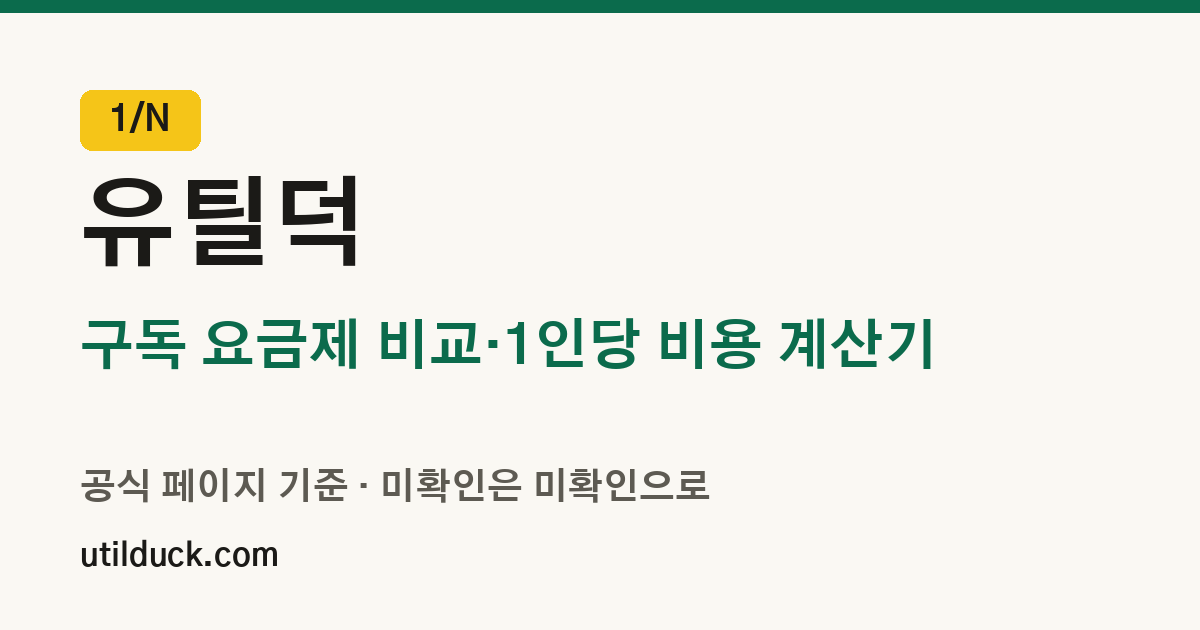
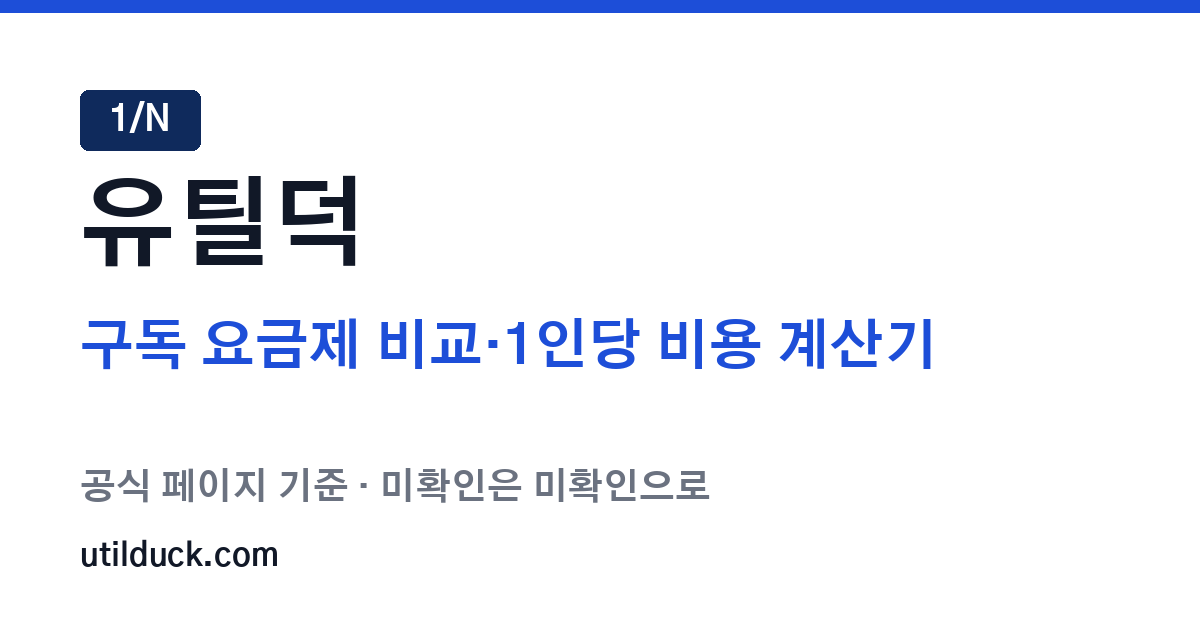
design v2: 화이트·쿨그레이 배경, 딥 블루 단일 강조, 네이비 로고마크 (2026-11-26 KST)

diff --git a/assets/style.css b/assets/style.css
@@ -1,15 +1,15 @@
-/* 유틸덕 디자인 토큰 — "1/N 정산표" 컨셉. 직접 작성(외부 CSS 복사 없음). */
+/* 유틸덕 디자인 토큰 v2 — 화이트·쿨그레이 + 딥 블루 단일 강조, "1/N 정산표" 컨셉. 직접 작성(외부 CSS 복사 없음). */
 :root{
-  --bg:#faf8f3;--surface:#fff;--surface-2:#fcfbf8;--line:#e4dfd3;--line-2:#efebe2;
-  --fg:#1b1a17;--mut:#5d5a52;--acc:#0b6b4c;--acc-hover:#08583e;--acc-soft:#e6f2ec;
-  --duck:#f5c518;--warn:#8a4500;--warn-soft:#fff4e2;--warn-line:#f0cf9a;
-  --r-s:6px;--r-m:10px;--r-l:12px;--r-pill:999px;
-  --sh-pop:0 8px 24px rgba(27,26,23,.08);
+  --bg:#f7f8fa;--surface:#fff;--surface-2:#f9fafb;--line:#e5e7eb;--line-2:#eef0f3;
+  --fg:#111827;--mut:#6b7280;--acc:#1d4ed8;--acc-hover:#1e40af;--acc-soft:#eff4ff;
+  --navy:#0f2a5c;--warn:#92400e;--warn-soft:#fffbeb;--warn-line:#fcd9a6;
+  --r-s:4px;--r-m:6px;--r-l:8px;--r-pill:6px;
+  --sh-pop:0 1px 3px rgba(17,24,39,.06),0 1px 2px rgba(17,24,39,.04);
   --fs-xs:.75rem;--fs-s:.8125rem;--fs-m:.9375rem;--fs-b:1rem;--fs-lead:1.0625rem;--fs-h3:1.0625rem;--fs-h2:1.3125rem;--fs-h1:1.75rem;--fs-num:2.5rem;
   --font:"Pretendard Variable",Pretendard,-apple-system,BlinkMacSystemFont,system-ui,"Apple SD Gothic Neo","Noto Sans KR","Malgun Gothic",sans-serif;
 }
 *{box-sizing:border-box}html{-webkit-text-size-adjust:100%}
-body{margin:0;font:400 var(--fs-b)/1.7 var(--font);background:var(--bg);color:var(--fg);letter-spacing:-.005em;word-break:keep-all;overflow-wrap:anywhere}
+body{margin:0;font:400 var(--fs-b)/1.7 var(--font);background:var(--bg);color:var(--fg);letter-spacing:-.005em;font-variant-numeric:tabular-nums;word-break:keep-all;overflow-wrap:anywhere}
 a{color:var(--acc);text-underline-offset:3px;text-decoration-thickness:1px}a:hover{color:var(--acc-hover)}
 :focus-visible{outline:2px solid var(--acc);outline-offset:2px;border-radius:4px}
 .wrap{max-width:1120px;margin:0 auto;padding:0 16px}
@@ -26,7 +26,7 @@ h3{font-size:var(--fs-h3);line-height:1.4;font-weight:700;margin:1.4em 0 .5em}
 .bar{display:flex;align-items:center;justify-content:space-between;gap:12px;min-height:56px}
 .brand{display:inline-flex;align-items:center;gap:8px;font-weight:800;font-size:1.125rem;color:var(--fg);text-decoration:none;letter-spacing:-.01em}
 .brand:hover{color:var(--fg)}
-.mark{display:inline-flex;align-items:center;justify-content:center;min-width:30px;height:24px;padding:0 6px;border-radius:var(--r-s);background:var(--duck);color:var(--fg);font-size:.75rem;font-weight:800;letter-spacing:.02em}
+.mark{display:inline-flex;align-items:center;justify-content:center;min-width:30px;height:24px;padding:0 6px;border-radius:var(--r-s);background:var(--navy);color:#fff;font-size:.75rem;font-weight:800;letter-spacing:.02em}
 .bar-cta{display:inline-flex;align-items:center;height:36px;padding:0 14px;border-radius:var(--r-pill);background:var(--acc);color:#fff;font-size:var(--fs-s);font-weight:700;text-decoration:none;white-space:nowrap}
 .bar-cta:hover{background:var(--acc-hover);color:#fff}
 .nav{display:flex;gap:8px;overflow-x:auto;padding:0 16px 12px;scrollbar-width:none;-webkit-overflow-scrolling:touch}
@@ -36,7 +36,7 @@ h3{font-size:var(--fs-h3);line-height:1.4;font-weight:700;margin:1.4em 0 .5em}
 .nav a[aria-current]{background:var(--acc-soft);border-color:var(--acc);color:var(--acc);font-weight:700}
 
 main{padding-top:28px;padding-bottom:56px}
-.crumbs{font-size:var(--fs-s);color:var(--mut);margin:0 0 12px}.crumbs a{color:var(--mut)}.crumbs .sep{color:#b9b3a6;margin:0 6px}
+.crumbs{font-size:var(--fs-s);color:var(--mut);margin:0 0 12px}.crumbs a{color:var(--mut)}.crumbs .sep{color:#9ca3af;margin:0 6px}
 
 /* 2단 레이아웃(서비스 페이지): 본문 + 오른쪽 목차/같은 분류 */
 .layout{display:grid;grid-template-columns:minmax(0,1fr);gap:32px}
@@ -81,7 +81,7 @@ a.card:hover{border-color:var(--acc)}
 
 /* 요약 카드(서비스 상단): 큰 숫자 하나 + 보조 지표 */
 .kpi{display:grid;grid-template-columns:1fr;gap:12px;margin:8px 0 6px}
-.kpi-main{background:var(--surface);border:1px solid var(--line);border-left:4px solid var(--acc);border-radius:var(--r-l);padding:20px 24px}
+.kpi-main{background:var(--surface);border:1px solid var(--line);border-left:3px solid var(--acc);box-shadow:var(--sh-pop);border-radius:var(--r-l);padding:20px 24px}
 .kpi-label{font-size:var(--fs-s);color:var(--mut);margin:0}
 .kpi-num{font-size:var(--fs-num);line-height:1.15;font-weight:800;letter-spacing:-.03em;margin:6px 0 4px;font-variant-numeric:tabular-nums}
 .kpi-num small{font-size:var(--fs-m);font-weight:500;color:var(--mut);margin-left:4px;letter-spacing:0}
@@ -100,7 +100,7 @@ span.src{text-decoration:none}
 table{border-collapse:collapse;width:100%;font-size:var(--fs-m);font-variant-numeric:tabular-nums}
 th,td{padding:12px 16px;text-align:left;vertical-align:top;border-bottom:1px solid var(--line-2)}
 tbody tr:last-child th,tbody tr:last-child td{border-bottom:0}
-thead th{background:var(--surface-2);color:var(--mut);font-size:var(--fs-xs);font-weight:600;white-space:nowrap;border-bottom:1px solid var(--line)}
+thead th{background:#f3f4f6;color:#4b5563;font-size:var(--fs-xs);font-weight:600;white-space:nowrap;border-bottom:1px solid var(--line)}
 tbody th{font-weight:700}
 td.num{white-space:nowrap;font-weight:700}
 td.num .src,td.num .small{font-weight:400}
@@ -110,7 +110,7 @@ td.num .src,td.num .small{font-weight:400}
 .spec .p{font-weight:800;font-size:var(--fs-b)}
 .unk{color:var(--warn);font-weight:700}
 .badge{display:inline-block;font-size:.6875rem;font-weight:600;border-radius:4px;padding:0 6px;background:var(--warn-soft);color:var(--warn);border:1px solid var(--warn-line);vertical-align:1px}
-.badge.ok{background:var(--acc-soft);color:var(--acc);border-color:#bfdccd}
+.badge.ok{background:var(--acc-soft);color:var(--acc);border-color:#c7d7fe}
 .note{background:var(--warn-soft);border:1px solid var(--warn-line);border-radius:var(--r-m);padding:12px 14px;margin:12px 0;font-size:var(--fs-m)}
 
 /* 목록·기록 */
@@ -125,10 +125,10 @@ li{margin:.25em 0}
 .calc h2{margin-top:0}
 .row{display:flex;flex-wrap:wrap;gap:6px 16px;align-items:center;margin:12px 0}
 .row label{flex:0 0 100%;font-weight:600;font-size:var(--fs-m)}
-.row select,.row input{flex:1 1 220px;min-height:48px;padding:0 12px;border:1px solid #cfc8b8;border-radius:var(--r-m);font:inherit;font-size:1rem;background:var(--surface);color:var(--fg)}
-.row select:focus,.row input:focus{border-color:var(--acc);outline:2px solid var(--acc-soft)}
+.row select,.row input{flex:1 1 220px;min-height:48px;padding:0 12px;border:1px solid #d1d5db;border-radius:var(--r-m);font:inherit;font-size:1rem;background:var(--surface);color:var(--fg)}
+.row select:focus,.row input:focus{border-color:var(--acc);outline:2px solid #bfd0fb}
 @media(min-width:720px){.row label{flex:0 0 220px}}
-.result{margin-top:16px;padding:18px 20px;background:var(--acc-soft);border-radius:var(--r-m);font-size:var(--fs-m);line-height:1.8}
+.result{margin-top:16px;padding:18px 20px;background:var(--acc-soft);border:1px solid #dbe5fd;border-radius:var(--r-m);font-size:var(--fs-m);line-height:1.8}
 .result:empty{display:none}
 .result strong{font-size:1.25rem;font-weight:800;color:var(--fg);font-variant-numeric:tabular-nums}
 #result strong:nth-of-type(2),#mres strong{display:inline-block;font-size:var(--fs-num);line-height:1.15;color:var(--acc);letter-spacing:-.03em}
@@ -151,16 +151,17 @@ li{margin:.25em 0}
 /* 홈 히어로: 문구 + 1/N 정산표 */
 .hero-grid{display:grid;grid-template-columns:minmax(0,1fr);gap:24px;align-items:center}
 @media(min-width:900px){.hero-grid{grid-template-columns:minmax(0,1.35fr) minmax(0,1fr)}}
-.receipt{background:var(--surface);border:1px solid var(--line);border-top:4px solid var(--acc);border-radius:var(--r-l);padding:20px 22px;box-shadow:var(--sh-pop)}
+.receipt{background:var(--surface);border:1px solid var(--line);border-top:3px solid var(--acc);border-radius:var(--r-l);padding:20px 22px;box-shadow:var(--sh-pop)}
 .receipt dl{margin:10px 0 14px;font-size:var(--fs-m)}
-.receipt dl div{display:flex;justify-content:space-between;gap:12px;padding:6px 0;border-bottom:1px dashed var(--line)}
+.receipt dl div{display:flex;justify-content:space-between;gap:12px;padding:6px 0;border-bottom:1px solid var(--line-2)}
 .receipt dt{color:var(--mut)}.receipt dd{margin:0;font-weight:700;font-variant-numeric:tabular-nums}
 .receipt .tot{border-bottom:0}.receipt .tot dt{color:var(--fg);font-weight:700}
 .receipt .kpi-num{color:var(--acc)}
 /* 스펙 표: 모바일 가로 스크롤 시 항목 열 고정 */
-.spec th[scope=row],.spec thead th:first-child{position:sticky;left:0;z-index:1;background:var(--surface-2)}
+.spec th[scope=row],.spec thead th:first-child{position:sticky;left:0;z-index:1;background:#f9fafb}.spec thead th:first-child{background:#f3f4f6}
 .spec th[scope=row]{box-shadow:1px 0 0 var(--line-2)}
 @media(max-width:560px){.spec td{min-width:150px}.spec th[scope=row]{white-space:normal;min-width:84px;max-width:96px}}
 .kpi-main{display:flex;flex-direction:column;justify-content:center}
 .svc-cards{grid-template-columns:repeat(auto-fill,minmax(160px,1fr))}
 @media(max-width:560px){.svc{padding:14px}.svc .big{font-size:1.1875rem}}
+.result .small,.result .src,.result .kpi-label{color:#4b5563}
